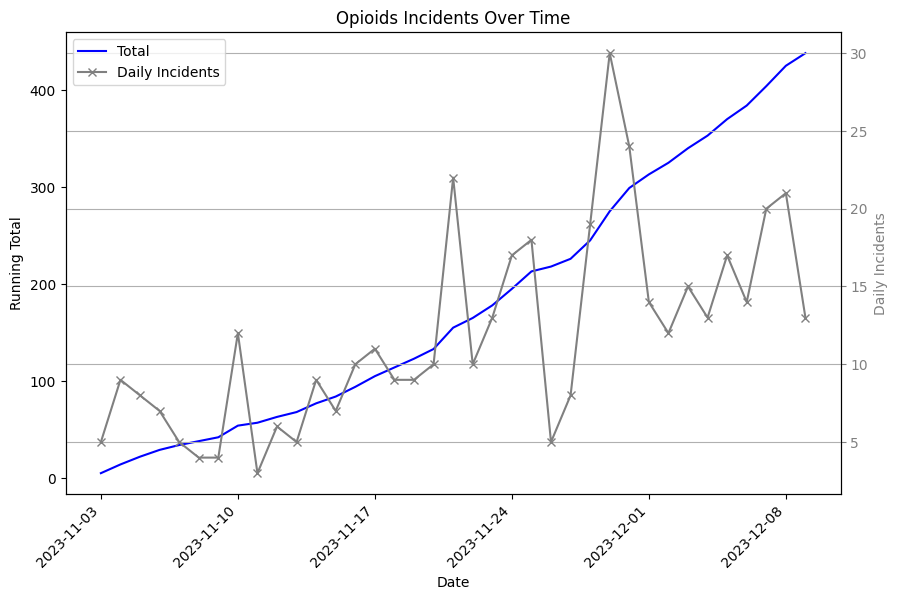
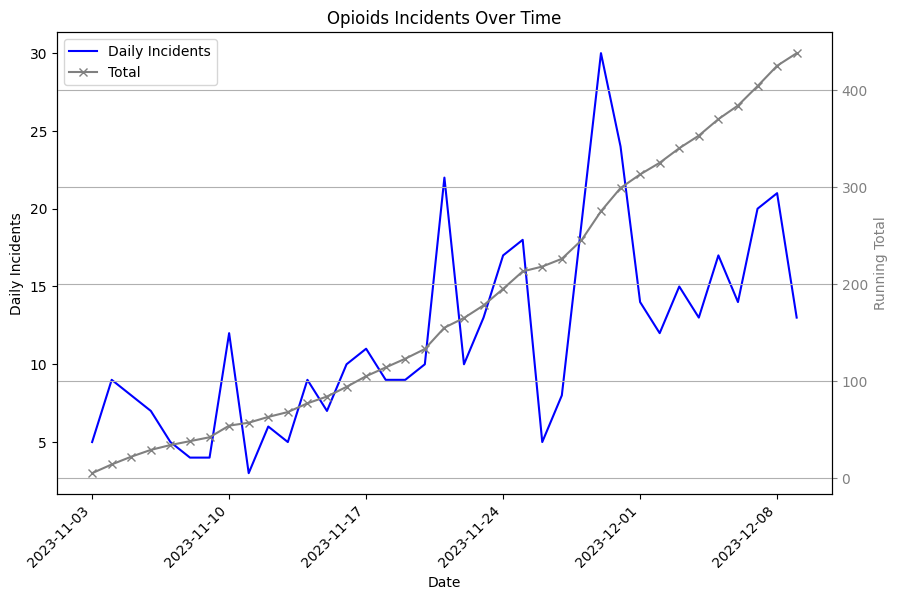
plots y-axis changed

diff --git a/index.html b/index.html
@@ -1,4 +1,5 @@
-
+<!DOCTYPE html>
+<html lang="en">
 <head>
     <meta charset="UTF-8">
     <meta name="viewport" content="width=device-width, initial-scale=1.0">
@@ -7,7 +8,7 @@
     <!-- Link to external stylesheet -->
     <link rel="stylesheet" href="styles.css">
 </head>
-
+<body>
 <!-- MAIN (Center website) -->
 <div class="main">
 
@@ -55,3 +56,5 @@
     </div>
     <!-- END MAIN -->
     </div>
+</body>
+</html>

diff --git a/fetchplotdata.py b/fetchplotdata.py
@@ -54,21 +54,21 @@ def plot_and_save(df, name):
   fig, ax1 = plt.subplots(figsize=(10, 6))
 
   # Plotting 'running_total' on the first y-axis
-  ax1.plot(df['dispatch_date'], df['running_total'], label='Total', color='blue')
+  ax1.plot(df['dispatch_date'], df['patient_number'], label='Daily Incidents', color='blue')
 
   # Adding labels for the first y-axis
   ax1.set_xlabel('Date')
-  ax1.set_ylabel('Running Total', color='black')
+  ax1.set_ylabel('Daily Incidents', color='black')
   ax1.tick_params('y', colors='black')
 
   # Create a secondary y-axis for 'another_column'
   ax2 = ax1.twinx()
 
   # Plotting 'another_column' on the second y-axis
-  ax2.plot(df['dispatch_date'], df['patient_number'], marker='x', label='Daily Incidents', color='grey')
+  ax2.plot(df['dispatch_date'], df['running_total'], marker='x', label='Total', color='grey')
 
   # Adding labels for the second y-axis
-  ax2.set_ylabel('Daily Incidents', color='grey')
+  ax2.set_ylabel('Running Total', color='grey')
   ax2.tick_params('y', colors='grey')
   
   n = 5
